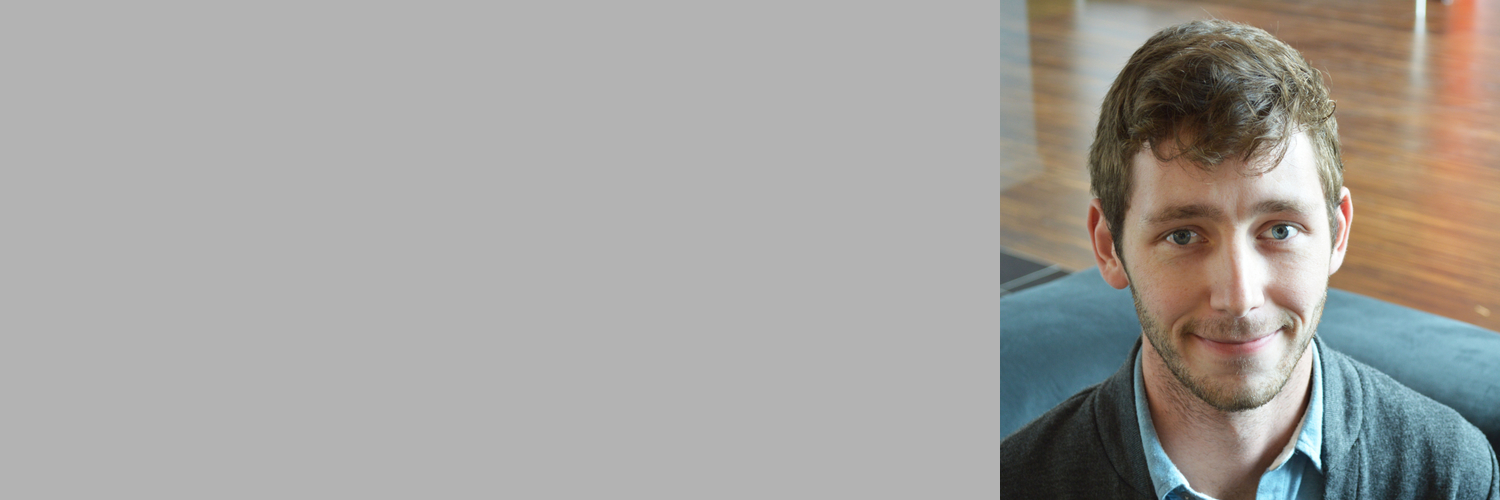
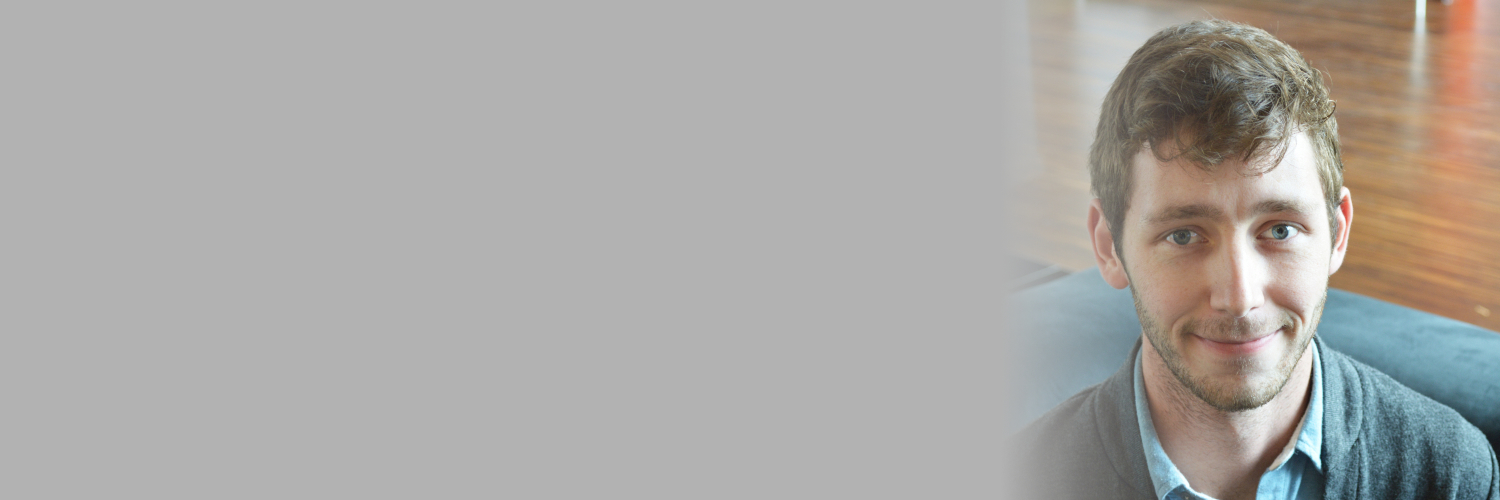
added images and formatiing for jumbotrons

Changed region(s): [[0.644, 0.0, 0.828, 1.0]]

diff --git a/index.html b/index.html
@@ -1,11 +1,9 @@
 ---
 layout: default
 ---
-<h1><strong>Junior Ruby on Rails Web Developer</strong></h1>
+<h1 class="text-centered"><strong>Junior Ruby on Rails Web Developer</strong></h1>
 <div class="row">
-  <div class="col-md-12">
-    <img src="/images/CodeEarth.jpg" class="img-responsive img-thumbnail" alt="hello world!"/>
-  </div>
+  <img src="/images/CodeEarth.jpg" class="img-responsive img-thumbnail" alt="hello world!"/>
 </div>
 <br />
 <div class="row">

diff --git a/_layouts/page.html b/_layouts/page.html
@@ -5,9 +5,7 @@ layout: default
 
   <header class="post-header">
     <div class="jumbotron" style="background: url('{{ page.image2 }}') no-repeat center center; background-size: cover;">
-      <div class="container">
-        <h1 class="post-title">{{ page.title }}</h1>
-      </div>
+      <h1 class="post-title">{{ page.title }}</h1>
     </div>
   </header>
 

diff --git a/education/index.html b/education/index.html
@@ -3,6 +3,7 @@ layout: page
 title: Education
 weight: 4
 image: /images/Education.jpg
+image2: /images/Education2.jpg
 ---
 <ul class="media-list">
   <li class="media">

diff --git a/work/index.html b/work/index.html
@@ -3,6 +3,7 @@ layout: page
 title: Work
 weight: 3
 image: /images/Work.jpg
+image2: /images/Work2.jpg
 ---
 
 <h3>Programming Applications:</h3>

diff --git a/skills/index.md b/skills/index.md
@@ -3,6 +3,7 @@ layout: page
 title: Skills
 weight: 2
 image: /images/Skills.jpg
+image2: /images/Skills2.jpg
 ---
 
 I am a competitive thinker with an emphasis on thorough research in order to develop a variety of solutions for a given problem. This skill has led me to develop a talent for writing with detailed problem analysis. I have a high aptitude for math and computer programming, and pursued these interests through independent study in addition to formal education and training. I currently have experiences in working with the following programming languages and frameworks:
